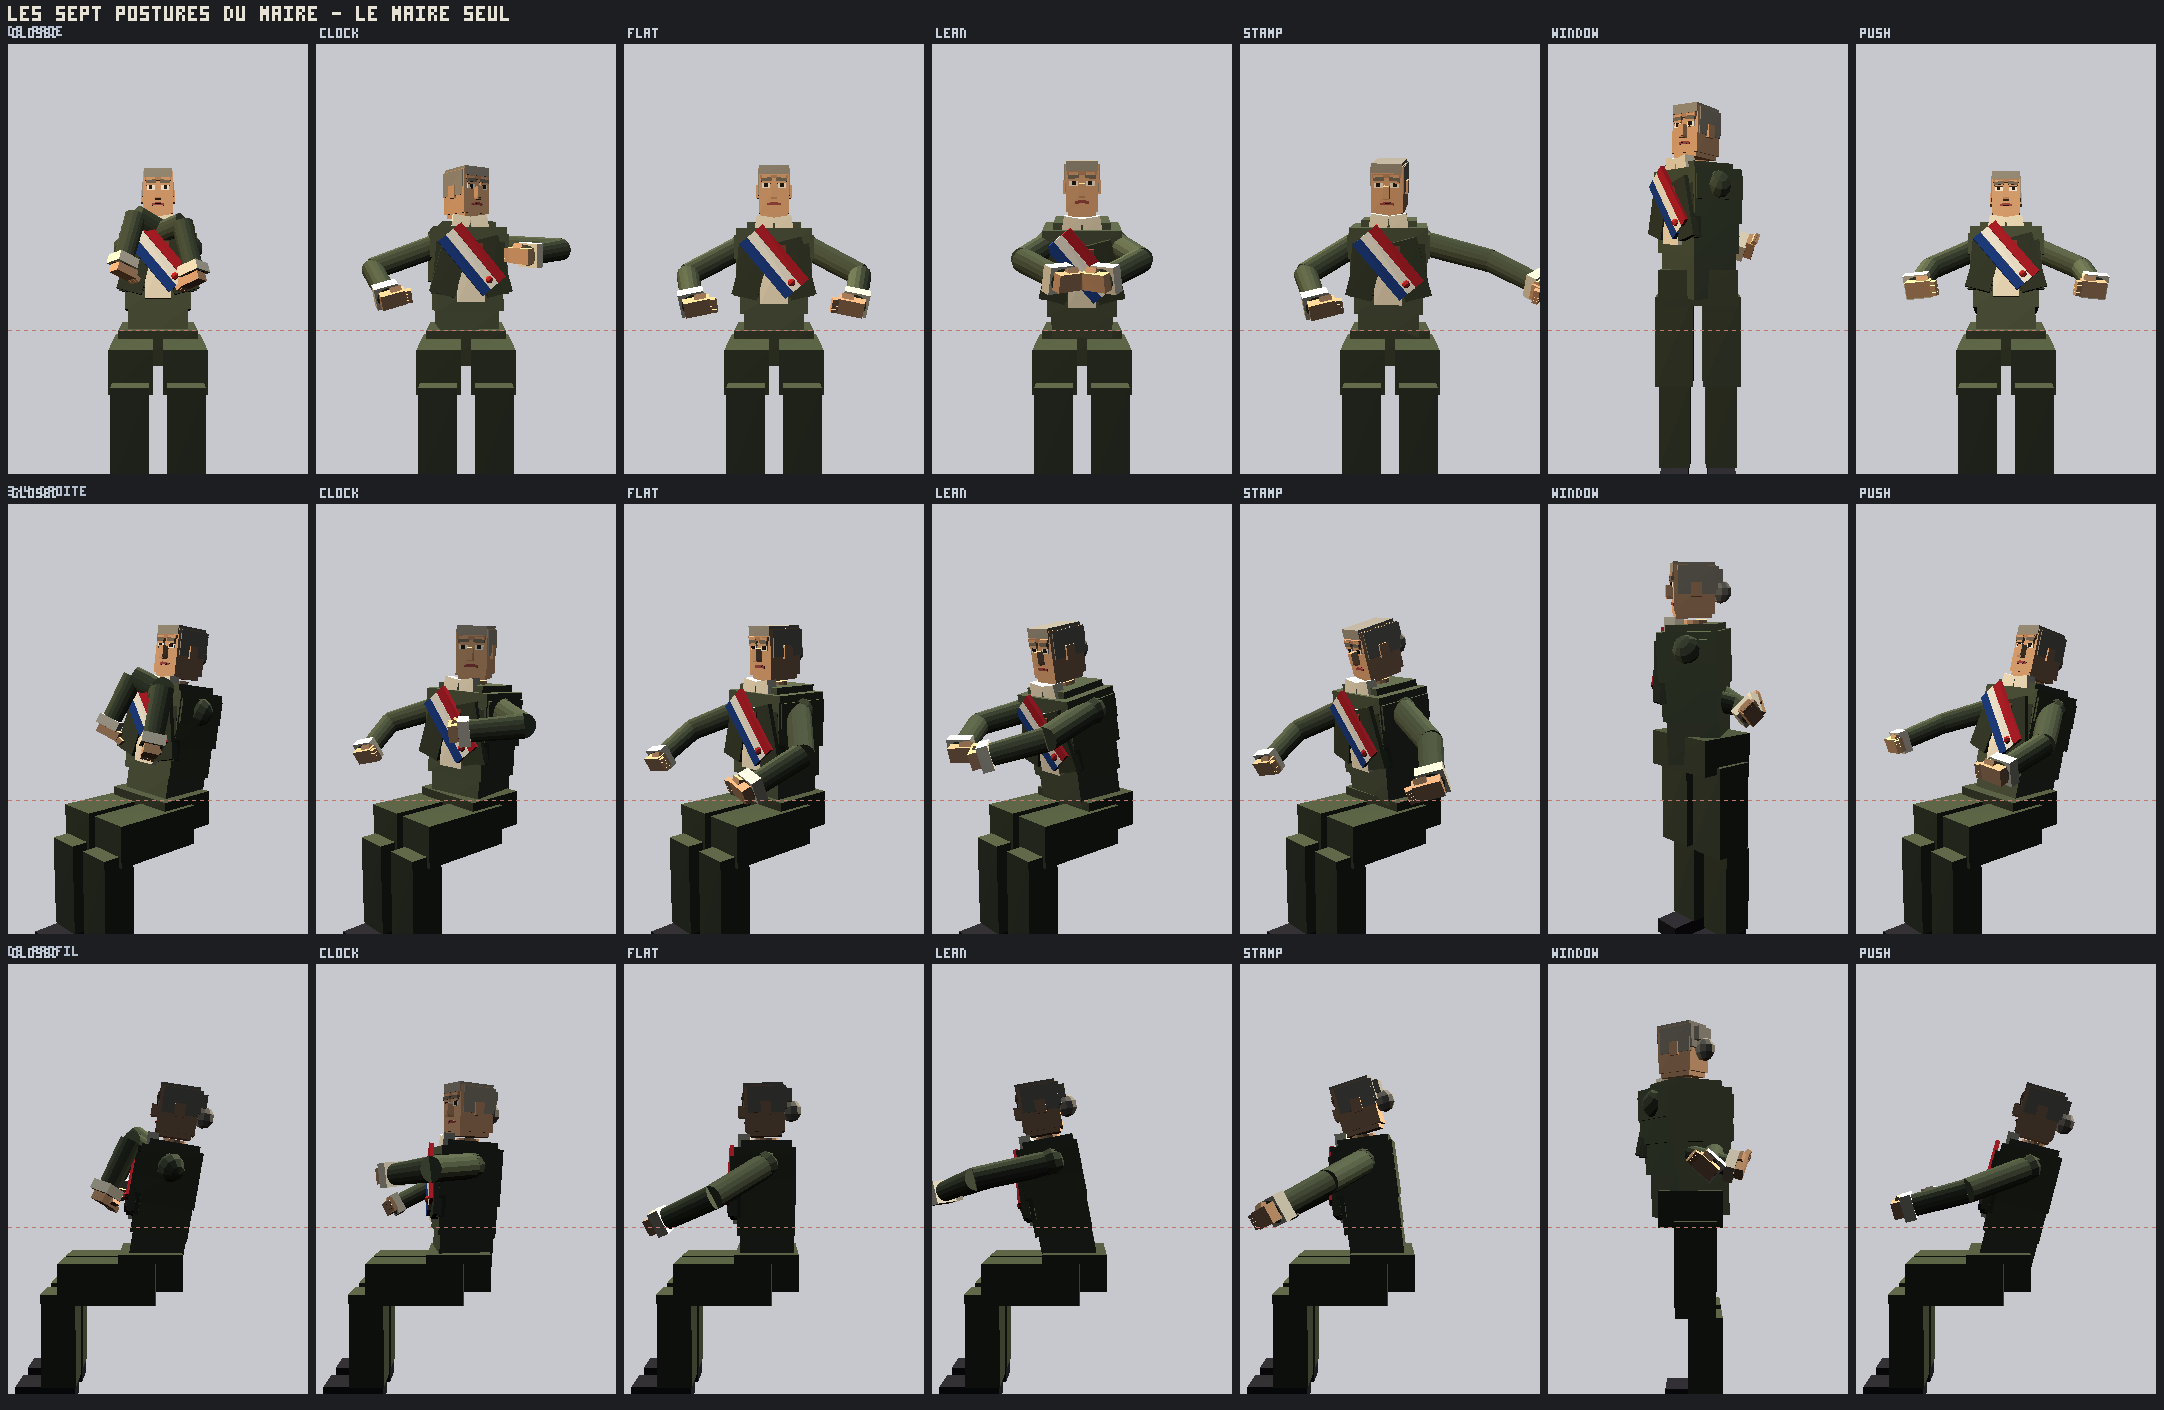
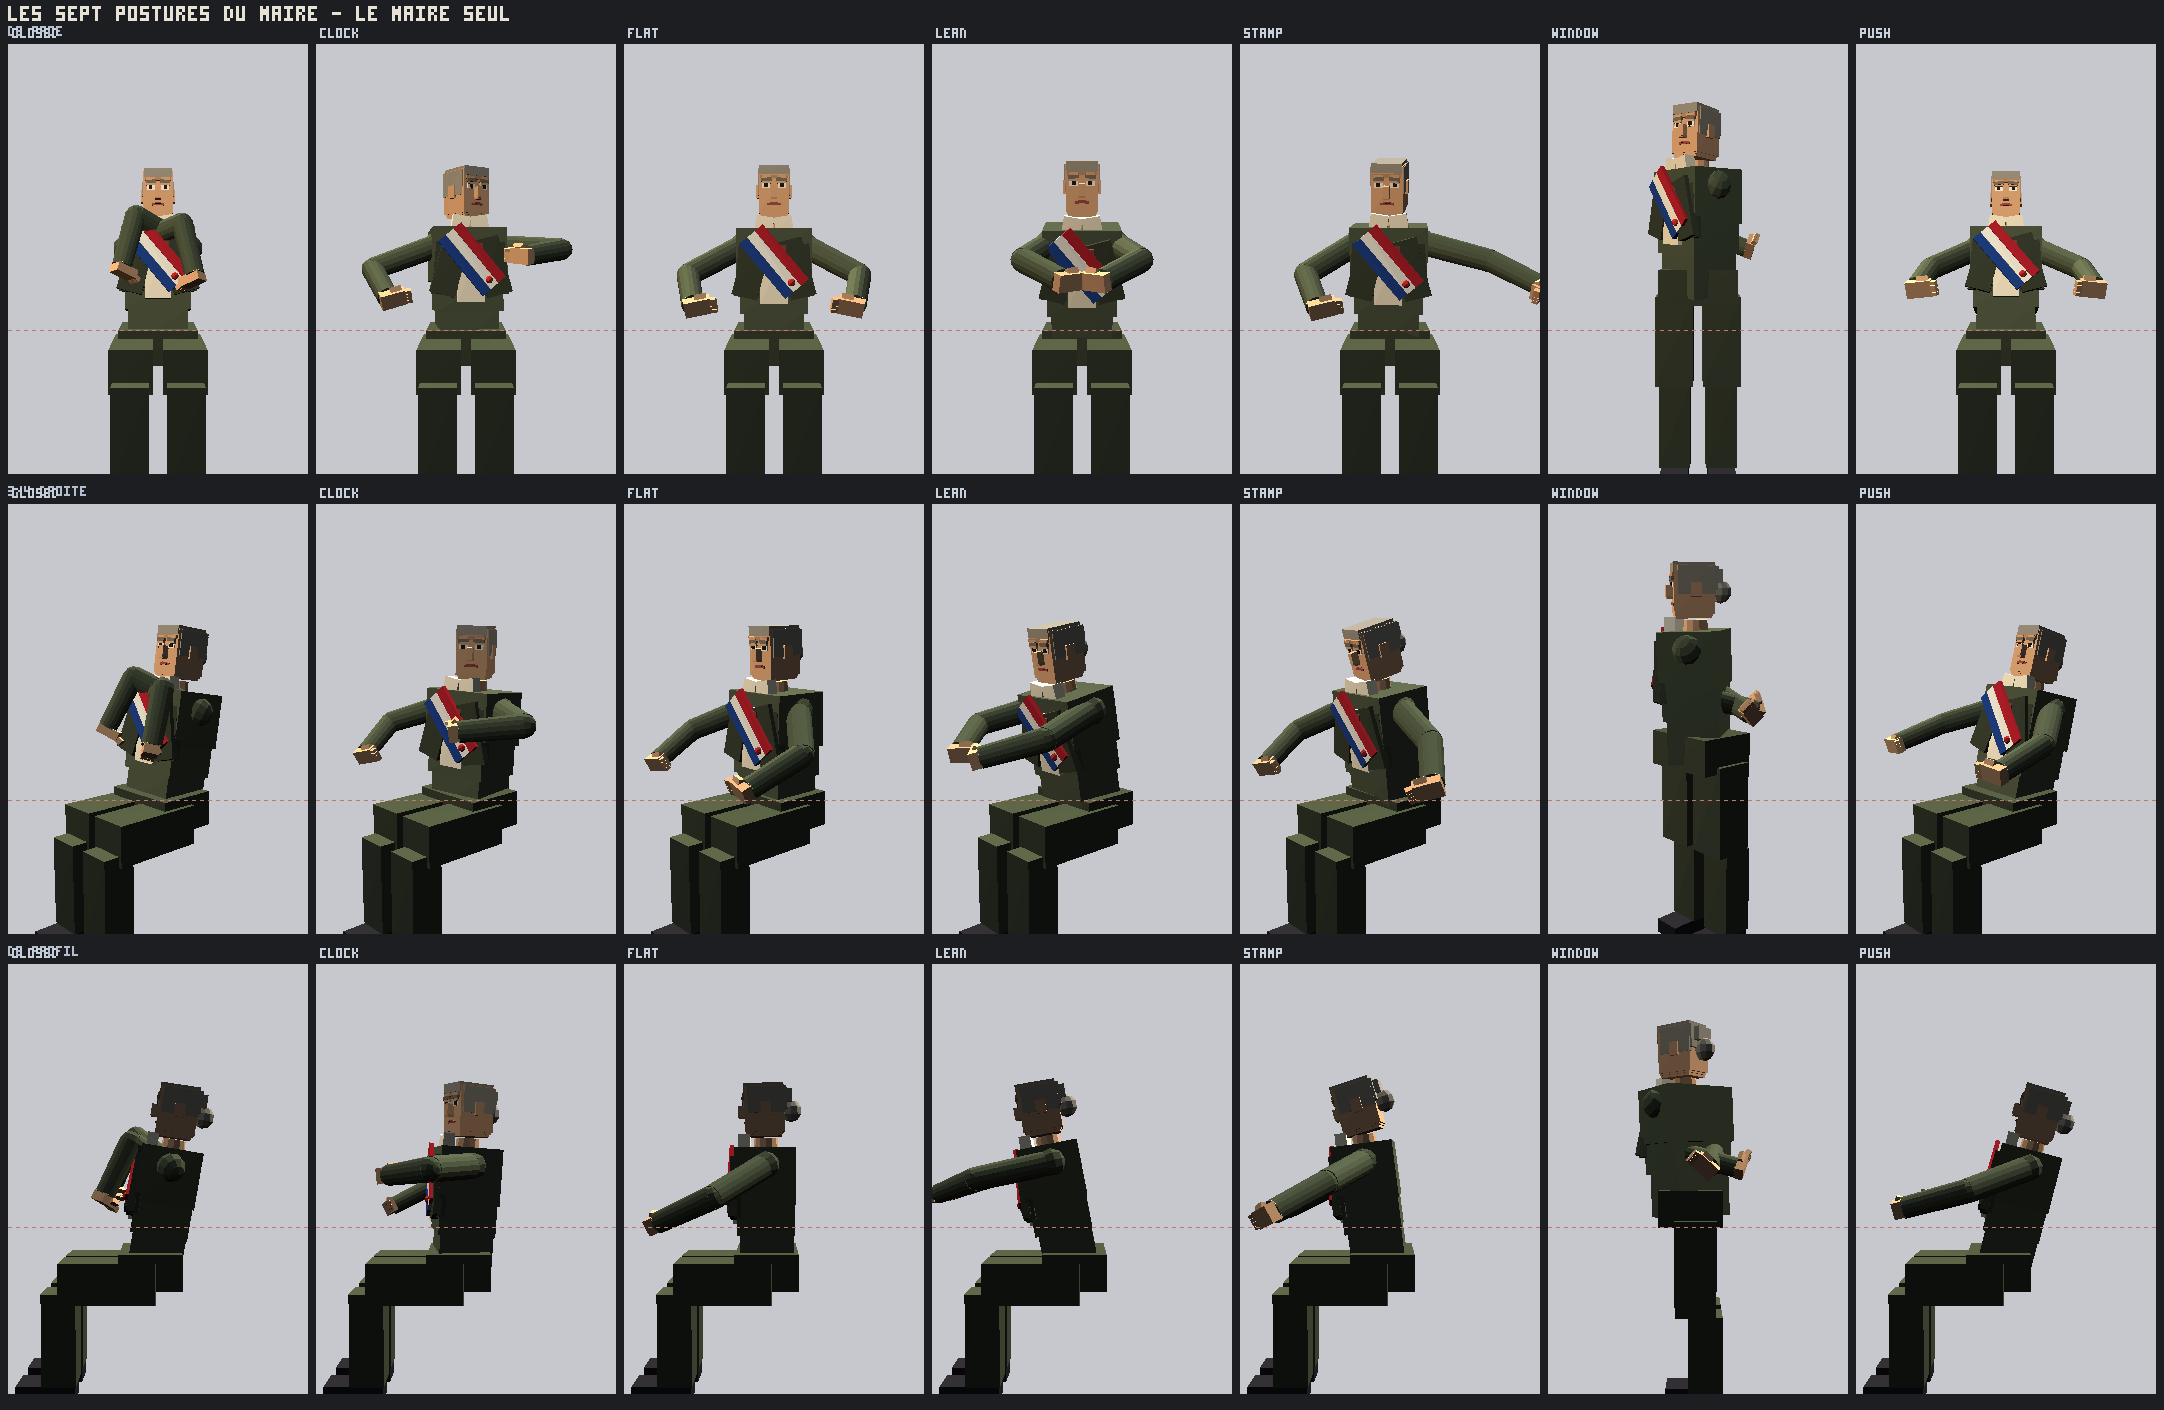
maire

diff --git a/components/ferme/maireBureau.js b/components/ferme/maireBureau.js
@@ -1097,8 +1097,28 @@ function buildMayor(THREE, K, look) {
      sépare un costume d'une armure. Les deux anciennes boîtes de 13,5 cm posées
      à plat au sommet lisaient comme des épaulettes — signalé par personne, vu
      sur la planche du banc. */
-  box(M.bidelt - M.deltoid, 0.10, M.chestD * 0.96, mSuit, 0, shY - 0.040, 0.004, 0, 0, 0, torso);
-  box(M.bidelt * 0.58, 0.075, M.chestD * 0.84, mSuit, 0, shY + 0.030, 0.000, 0, 0, 0, torso);
+  /* ⚠⚠ DETTE GRAPHIQUE CORRIGÉE LE 2026-09-15 : LES DEUX PLAQUES CI-DESSOUS
+     ÉTAIENT IDENTIQUES POUR LES DEUX SEXES — seul `bidelt` (la largeur totale
+     de la carrure) suivait `M.fem`, jamais la PART de cette largeur donnée à
+     la plaque PLATE contre celle laissée au deltoïde ROND. Sur une carrure
+     déjà plus étroite (§ `mensurations`), la même plaque plate lit comme une
+     épaulette de costume masculin — signalé par Guillaume (« les épaules
+     carrées c'est bizarre sur une femme »). Un trapèze féminin est moins
+     bâti : la plaque rétrécit et s'aplatit, et c'est le ROND du deltoïde (déjà
+     dessiné en sphère plus bas) qui domine davantage la silhouette — jamais
+     réglé à l'œil, dérivé de `M.fem` comme la jupe ou le chemisier. */
+  const shPlateW = M.fem ? 0.80 : 1, shPlateH = M.fem ? 0.70 : 1;
+  box((M.bidelt - M.deltoid) * shPlateW, 0.10 * shPlateH, M.chestD * 0.96, mSuit, 0, shY - 0.040, 0.004, 0, 0, 0, torso);
+  /* ⚠⚠ DETTE GRAPHIQUE 2026-09-13 CORRIGÉE LE 2026-09-14 : CETTE PLAQUE MONTAIT
+     À `shY + 0,030`, SOIT SIX CENTIMÈTRES AU-DESSUS DE L'ATTACHE DU COU
+     (`shY + 0,005`, voir plus bas). Le trapèze recouvrait donc toute la base du
+     cou sur toute sa largeur (0,58 × bidelt, soit ~26 cm) : vu de face, les
+     épaules « avalaient » le cou au lieu de le laisser émerger — exactement le
+     signalement de Guillaume (« épaules plus hautes que la base du cou »).
+     Aucun banc ne le mesure (`render-maire` compare des cibles de main, pas un
+     recouvrement de silhouette). Descendue pour que son sommet s'arrête AU
+     NIVEAU de l'attache du cou, jamais au-dessus. */
+  box(M.bidelt * 0.58 * shPlateW, 0.05 * shPlateH, M.chestD * 0.84, mSuit, 0, shY - 0.022, 0.000, 0, 0, 0, torso);
   /* ⚠ LA CARRURE DESSINÉE DOIT FAIRE `bidelt`, PAS L'ÉCART DES JOINTS. Premier
      jet : la plaque d'épaule faisait la largeur des deux articulations et les
      deltoïdes pendaient DESSOUS — vu de face, deux boules sous une planche, et
@@ -1182,17 +1202,38 @@ function buildMayor(THREE, K, look) {
     sph(M.deltoid, mSuit, 0, 0.008, 0, sh, 12);
     cyl(M.armR, M.armR * 0.90, M.armUp, mSuit, 0, -M.armUp / 2, 0, 0, 0, 0, sh, 16);
     const el = grp(0, -M.armUp, 0, sh);
+    /* ⚠⚠ DETTE GRAPHIQUE 2026-09-13 CORRIGÉE LE 2026-09-14 : LE COUDE N'AVAIT
+       AUCUN ARRONDI — deux cylindres bout à bout (haut de bras Ø à `armR*0,90`,
+       avant-bras Ø à `armR*0,88`) se rencontraient sur une arête nette, comme
+       deux tuyaux boulonnés. C'est la moitié de « anatomie carrée » qui restait
+       après le passage de l'épaule en sphère (voir plus haut) : le même défaut,
+       à l'articulation suivante. Une sphère qui comble la jointure fait ce que
+       l'épaule fait déjà — une articulation ronde ne montre pas d'arête. */
+    sph(M.armR * 0.87, mSuit, 0, 0, 0, el, 12);
     cyl(M.armR * 0.88, M.armR * 0.78, M.armFore, mSuit, 0, -M.armFore / 2, 0, 0, 0, 0, el, 16);
-    box(0.095, 0.042, 0.095, mShirt, 0, -M.armFore + 0.022, 0, 0, 0, 0, el);      // la manchette
+    /* ⚠⚠ DETTE GRAPHIQUE 2026-09-13 CORRIGÉE LE 2026-09-14 : LA MANCHETTE
+       ÉTAIT UN CUBE (`box` aux trois dimensions égales, 0,095 partout) —
+       littéralement le défaut nommé par Guillaume. Une manchette de chemise est
+       un anneau autour du poignet, pas un bloc : un cylindre qui reprend le
+       rayon de l'avant-bras à sa base et s'évase à peine vers la main (comme un
+       vrai poignet de chemise qui dépasse de la manche) donne la même lecture
+       pour un coût de dessin identique. Les rayons dérivent de `M.armR`, comme
+       le reste du bras, pour rester justes sur les cinq maires. */
+    cyl(M.armR * 0.68, M.armR * 0.78, 0.042, mShirt, 0, -M.armFore + 0.022, 0, 0, 0, 0, el, 12);
     const hd = grp(0, -M.armFore, 0, el);
     /* ⚠ LA MAIN EST PLUS FINE QU'AVANT ET PLUS LONGUE : une main d'adulte fait
        11 % de la stature, la sienne en faisait 6 % pour une largeur de 7,2 cm —
        c'est-à-dire une moufle. Quatre doigts et un pouce, comme chez Tristan,
        et pas un de plus : à cette distance le cinquième doigt est un pixel. */
     box(0.062, 0.040, 0.098, mSkin, 0, -0.016, 0.016, 0, 0, 0, hd);
-    for (let i = 0; i < 4; i++) box(0.013, 0.022, 0.058, mSkin, -0.021 + i * 0.014, -0.024, 0.058, 0.30, 0, 0, hd);
-    box(0.020, 0.022, 0.044, mSkin, sx * 0.033, -0.010, 0.032, 0, 0, sx * 0.6, hd);
-    return { sh, el, hd };
+    /* ⚠ `fingers`/`thumb` SONT GARDÉS (pas juste dessinés) DEPUIS LE
+       2026-09-15 : `applyPose` doit pouvoir les refermer sur le stylo — voir
+       sa note plus bas. Avant, ces boîtes étaient dessinées puis oubliées,
+       donc figées dans leur pose de repos, stylo en main ou non. */
+    const fingers = [];
+    for (let i = 0; i < 4; i++) fingers.push(box(0.013, 0.022, 0.058, mSkin, -0.021 + i * 0.014, -0.024, 0.058, 0.30, 0, 0, hd));
+    const thumb = box(0.020, 0.022, 0.044, mSkin, sx * 0.033, -0.010, 0.032, 0, 0, sx * 0.6, hd);
+    return { sh, el, hd, fingers, thumb };
   };
   const armL = arm(-1), armR = arm(1);
 
@@ -1211,6 +1252,17 @@ function buildMayor(THREE, K, look) {
   const head = grp(0, M.headY, 0.010, torso);
   head.scale.set(M.headK[0], M.headK[1], M.headK[2]);
   box(0.212, 0.245, 0.220, mSkin, 0, 0, 0, 0, 0, 0, head);
+  /* ⚠⚠ DETTE GRAPHIQUE CORRIGÉE LE 2026-09-15 : LE CRÂNE (0,212 DE LARGE)
+     TOMBAIT DIRECTEMENT SUR LE MENTON (0,188), SANS RIEN ENTRE LES DEUX — un
+     seul palier de 1,2 cm de chaque côté, exactement à la hauteur où l'œil
+     cherche une mâchoire. Signalé par Guillaume (« le visage manque de
+     réalisme anatomique, c'est des blocs perpendiculaires »). Le buste évite
+     déjà ce défaut avec trois étages qui se resserrent (poitrine, ceinture,
+     taille, voir plus haut) ; la tête n'avait que deux. Une boîte de mâchoire,
+     intercalée, chevauche le bas du crâne ET le haut du menton (aucun vide
+     entre les trois) et coupe le seul grand palier en deux petits — le même
+     principe que le buste, appliqué à l'endroit qui manquait. */
+  box(0.196, 0.075, 0.205, mSkin, 0, -0.095, 0.002, 0, 0, 0, head);            // la mâchoire, palier intermédiaire
   box(0.188, 0.050, 0.195, mSkin, 0, -0.122, 0.004, 0, 0, 0, head);              // le menton
   for (const sx of [-1, 1]) box(0.026, 0.072, 0.058, mSkin, sx * 0.112, 0.000, -0.008, 0, 0, 0, head);
   /* ⚠⚠ LES CHEVEUX SONT UNE COIFFURE, PAS UNE CALOTTE, ET LE PREMIER JET AVAIT
@@ -1555,16 +1607,41 @@ export function applyPose(rig, cur, t) {
      écoute plus » sans une ligne de texte. ── */
   const p = rig.pen, k = cur.pen;
   const restY = ROOM.deskTop + 0.010, restZ = ROOM.deskC + 0.14;
+  /* ⚠⚠ DETTE GRAPHIQUE CORRIGÉE LE 2026-09-15 : LES DOIGTS NE BOUGEAIENT
+     JAMAIS — `fingers`/`thumb` étaient dessinés une fois dans leur pose de
+     repos et le stylo se contentait de flotter à un décalage fixe de la MAIN
+     (`hd`), stylo présent ou non. Signalé par Guillaume (« pas connecté,
+     manipulé de manière incohérente par les doigts »). L'index (le doigt le
+     plus proche du pouce — sur la main DROITE, construite avec `sx=+1`, c'est
+     `fingers[3]`, celui posé du côté du pouce, pas `fingers[0]`) se referme
+     avec le pouce à mesure que `k` monte, et c'est LUI — pas `hd` — qui ancre
+     le stylo : la prise se voit, elle n'est plus supposée. */
+  const idxF = m.armR.fingers[3], thumbF = m.armR.thumb;
+  idxF.rotation.x = 0.30 + 0.55 * k;
+  thumbF.rotation.z = 0.6 + 0.30 * k;
   m.armR.hd.updateMatrixWorld(true);
-  const hand = rig._v.setFromMatrixPosition(m.armR.hd.matrixWorld);
+  const hand = rig._v.setFromMatrixPosition(idxF.matrixWorld);
   p.position.set(
-    (-0.30) * (1 - k) + (hand.x + 0.02) * k,
-    restY * (1 - k) + (hand.y - 0.02) * k,
-    restZ * (1 - k) + (hand.z + 0.09) * k);
+    (-0.30) * (1 - k) + (hand.x + 0.006) * k,
+    restY * (1 - k) + (hand.y + 0.010) * k,
+    restZ * (1 - k) + (hand.z + 0.006) * k);
+  /* ⚠⚠ DETTE GRAPHIQUE 2026-09-13 CORRIGÉE LE 2026-09-14 : LA ROTATION CONTINUE
+     ÉTAIT ÉCRITE SUR `z`, PAS SUR `y` — ET LE STYLO EST BÂTI LE LONG DE SON `y`
+     LOCAL (`cyl(...)` sans rotation, plus haut dans ce fichier : trois cylindres
+     empilés sur l'axe Y). Avec l'ordre d'Euler par défaut de three.js (« XYZ »,
+     intrinsèque), le canal `y` tourne autour de l'axe propre de l'objet — donc
+     autour de SA LONGUEUR, comme un stylo qu'on roule entre les doigts. Le canal
+     `z` tourne autour d'un axe perpendiculaire à cette longueur : le stylo
+     culbutait sur lui-même comme un bâton lancé en l'air, jamais comme un objet
+     roulé. Signalé par Guillaume (« tourner le stylo pas réaliste »). La
+     correction est un simple échange de canal — aucun nombre ne change, le
+     roulis continu (`t * 3.4`) va sur `y`, le petit balancement (`sin(t*2.1)`)
+     reste sur l'axe perpendiculaire, qui décide de l'angle où le stylo penche
+     pendant qu'il roule. */
   p.rotation.set(
     (Math.PI / 2) * (1 - k) + (-0.5) * k,
-    (0.32) * (1 - k) + Math.sin(t * 2.1) * 0.35 * k,
-    (Math.PI / 2) * (1 - k) + (t * 3.4 % (Math.PI * 2)) * k);
+    (0.32) * (1 - k) + (t * 3.4 % (Math.PI * 2)) * k,
+    (Math.PI / 2) * (1 - k) + Math.sin(t * 2.1) * 0.35 * k);
 
   /* le rouleau : posé en bout de bureau, ou déroulé au milieu du sous-main */
   const r = cur.roll;

diff --git a/CLAUDE.md b/CLAUDE.md
@@ -52,12 +52,22 @@ pas fini de s'installer, et le bouton ne fait rien, silencieusement.
 
 **D14 (la récompense `starlight`) reste « on tranchera ça plus tard »** — ne rien y inventer.
 
-### ⏭ ACTION SUIVANTE : IL N'Y EN A PLUS DE PRESCRITE — DEMANDER À GUILLAUME
+### ⏭ ACTION SUIVANTE : VÉRIFIER LA CONFIGURATION GOOGLE CLOUD DE OÙ'S THAT
 
-La quête de l'étoile n'impose plus de chantier. **La bonne première action d'une prochaine session
-est donc de LUI DEMANDER quoi ouvrir ensuite**, pas d'en choisir un — c'est la règle du §2 (« avant
-toute production créative, poser des questions »). Le §13 tient la liste de ce qui attend son
-jugement ; parmi les candidats les plus visibles, sans en privilégier un :
+⚠ **DETTE IMMÉDIATE, À FAIRE AVEC CODEX ET GUILLAUME DEVANT LA CONSOLE GOOGLE CLOUD** : le code
+n'appelle que Maps Embed API, gratuite et illimitée au 2026-09-14, mais le dépôt ne peut pas prouver
+la configuration du compte réel. Guillaume se connecte lui-même — aucun identifiant transmis à
+l'agent (§2) — puis Codex guide la vérification : adresse de facturation dans l'EEE ; clé dédiée à
+Où's That ; restriction d'API sur **Maps Embed API seulement** ; référents limités aux domaines
+Arcardi nécessaires ; aucune API payante ni autre service Cloud utilisant cette clé ou ce projet ;
+rapport de facturation à zéro. ⚠ Un budget d'alerte ne constitue pas un plafond de dépense. Cette
+vérification est CLOSE seulement après lecture des écrans réels, jamais par déduction depuis
+`NEXT_PUBLIC_GOOGLE_MAPS_EMBED_KEY`.
+
+La quête de l'étoile n'impose plus de chantier. **Après cette vérification non créative, la bonne
+première action est donc de DEMANDER À GUILLAUME quoi ouvrir ensuite**, pas d'en choisir un — c'est
+la règle du §2 (« avant toute production créative, poser des questions »). Le §13 tient la liste de
+ce qui attend son jugement ; parmi les candidats les plus visibles, sans en privilégier un :
 - **les îles** — le navire promet maintenant un ailleurs, par la voix d'Eduardo ; rien ne dit encore
   ce qu'on y trouve (§13, le lac-océan) ;
 - **la chaîne de transport du bois du bateau** — direction tranchée avec Guillaume, jamais construite ;
